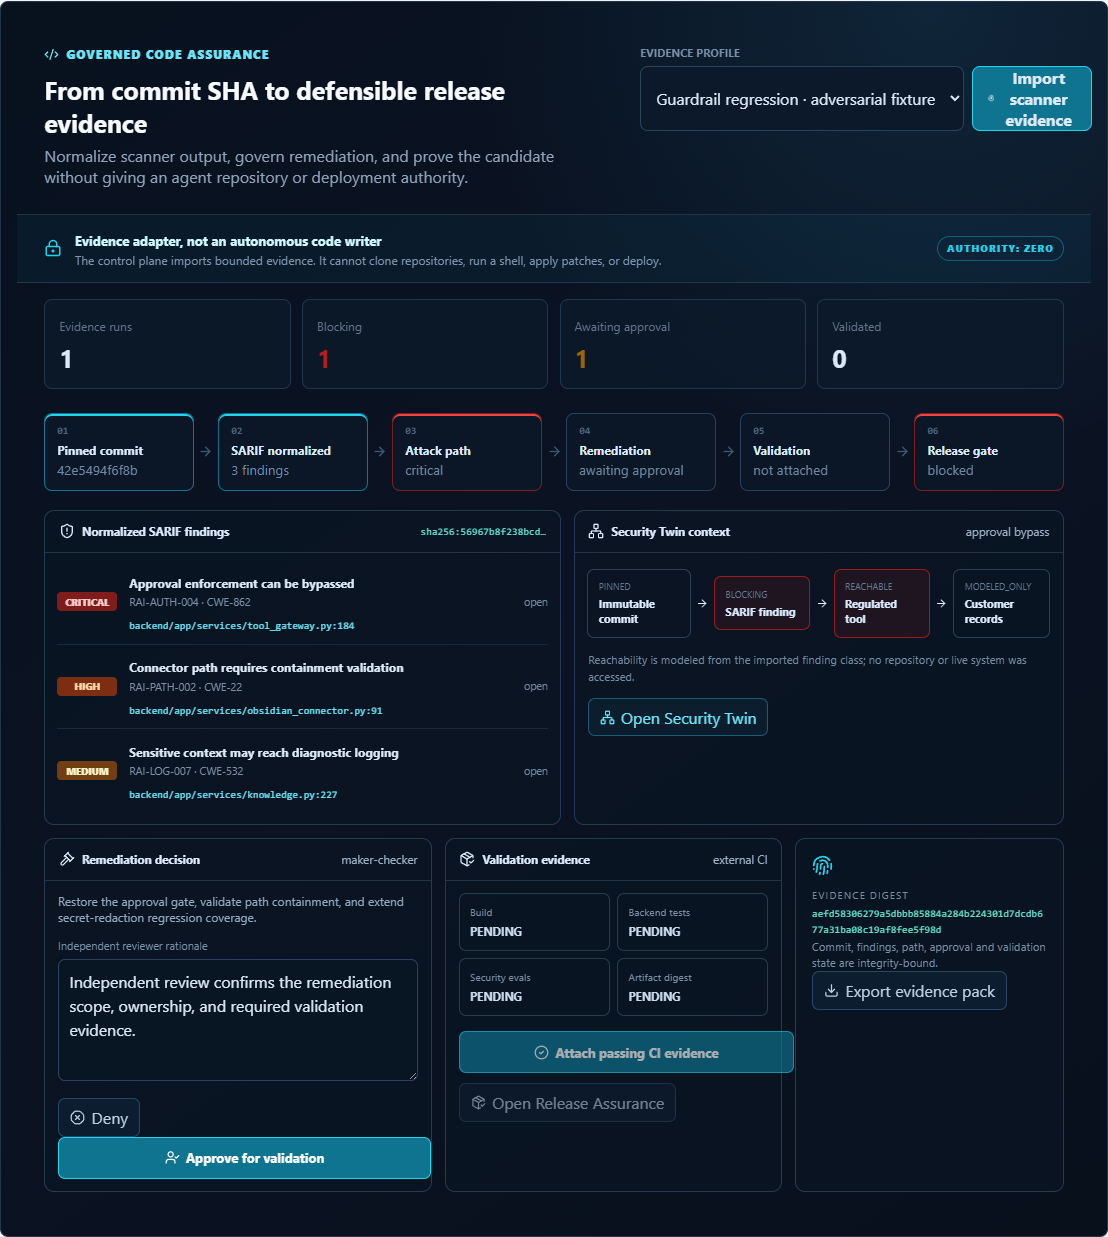
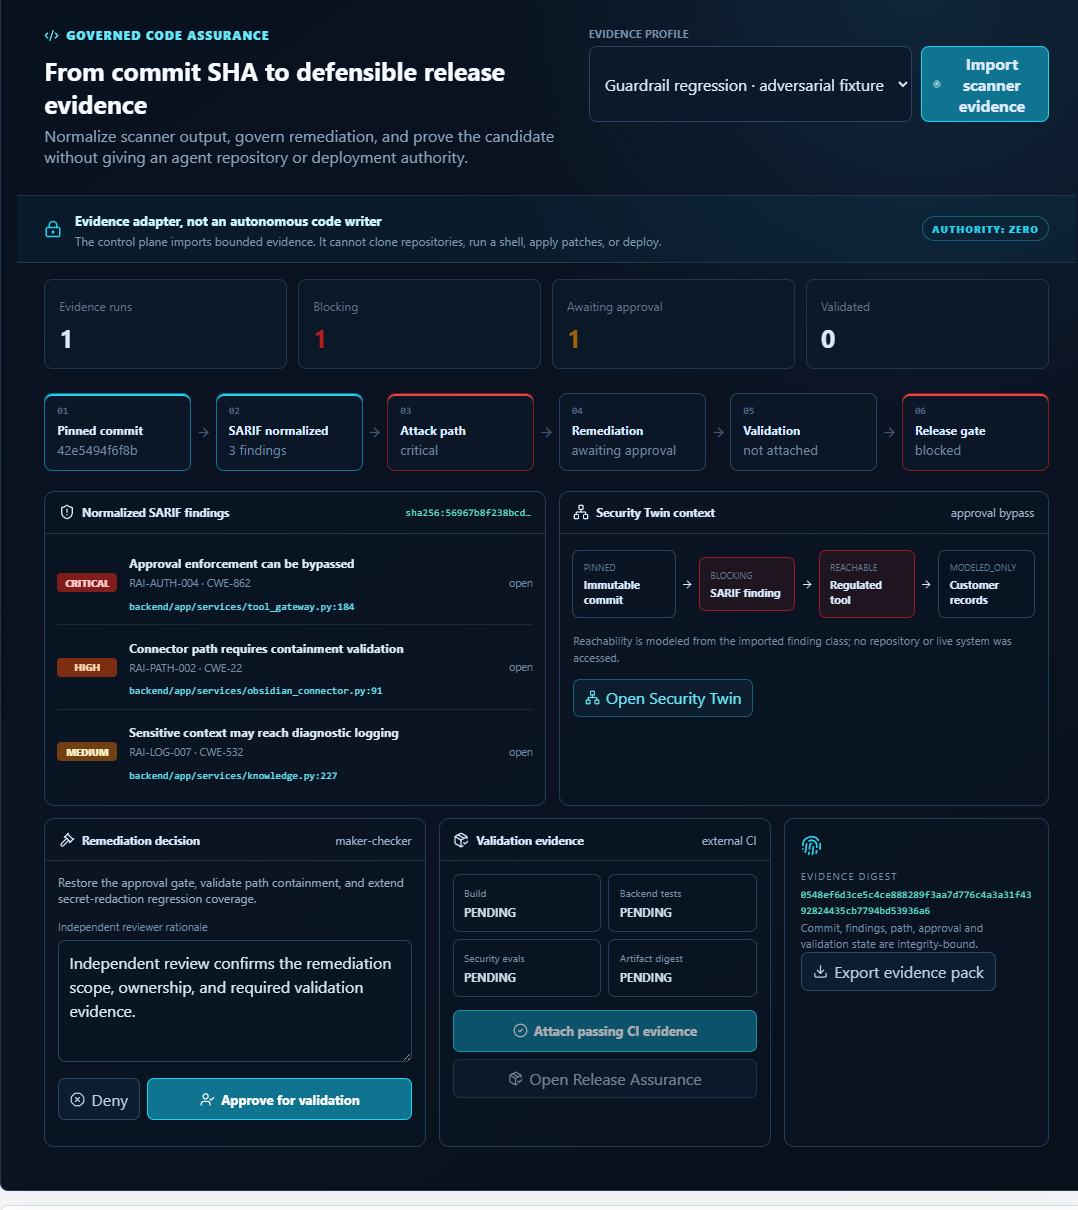
Fix Code Assurance action layout

diff --git a/frontend/src/styles.css b/frontend/src/styles.css
@@ -7403,16 +7403,17 @@ button.timeline-row:hover strong {
   border-bottom: 1px solid #22334a;
 }
 
+.code-assurance-hero > div:first-child { flex: 1 1 0; min-width: 0; }
 .code-assurance-hero h2 { margin: .45rem 0 .35rem; color: #f7fbff; font-size: 1.55rem; }
 .code-assurance-hero p { margin: 0; max-width: 760px; color: #8fa5bd; }
 .code-assurance-kicker { display: inline-flex; align-items: center; gap: .45rem; color: #67e8f9; font-size: .72rem; font-weight: 800; letter-spacing: .12em; }
-.code-assurance-actions { min-width: 350px; }
+.code-assurance-actions { flex: 0 1 460px; max-width: 100%; min-width: 320px; }
 .code-assurance-actions label { display: block; margin-bottom: .35rem; color: #7890aa; font-size: .7rem; font-weight: 700; text-transform: uppercase; }
 .code-assurance-actions > div { display: flex; gap: .55rem; }
 .code-assurance-actions select,
 .code-assurance-actions button { min-height: 39px; border: 1px solid #2a425f; background: #0c192a; color: #dce9f7; border-radius: 8px; }
-.code-assurance-actions select { flex: 1; padding: 0 .7rem; }
-.code-assurance-actions button { display: inline-flex; align-items: center; gap: .4rem; padding: 0 .9rem; background: #0e7490; border-color: #22d3ee; font-weight: 700; }
+.code-assurance-actions select { flex: 1 1 auto; min-width: 0; padding: 0 .7rem; }
+.code-assurance-actions button { align-items: center; background: #0e7490; border-color: #22d3ee; display: inline-flex; flex: 0 0 128px; font-weight: 700; gap: .4rem; justify-content: center; padding: .35rem .7rem; white-space: normal; }
 
 .code-assurance-boundary {
   align-items: center;
@@ -7483,20 +7484,23 @@ button.timeline-row:hover strong {
 .code-attack-card > button { margin-left: .85rem; display: inline-flex; align-items: center; gap: .4rem; color: #67e8f9; border: 1px solid #155e75; background: #0c1d2e; border-radius: 7px; padding: .45rem .65rem; }
 
 .code-assurance-lower { gap: .8rem; padding: 0 1.7rem 1.7rem; }
-.code-remediation-card { flex: 1.15; padding-bottom: .8rem; }
-.code-validation-card { flex: 1; padding-bottom: .8rem; }
-.code-evidence-card { flex: .7; padding: 1rem; }
+.code-remediation-card { flex: 1.15; min-width: 0; padding-bottom: .8rem; }
+.code-validation-card { flex: 1; min-width: 0; padding-bottom: .8rem; }
+.code-evidence-card { flex: .7; min-width: 0; padding: 1rem; }
 .code-remediation-card > p { margin: .8rem; color: #93a9c0; font-size: .75rem; }
 .code-remediation-card label { display: block; margin: .8rem; }
 .code-remediation-card label span { display: block; margin-bottom: .35rem; color: #7890aa; font-size: .68rem; }
 .code-remediation-card textarea { width: 100%; box-sizing: border-box; resize: vertical; border: 1px solid #2a425f; border-radius: 7px; background: #081522; color: #dce9f7; padding: .65rem; }
-.code-remediation-card > div:last-child,
-.code-validation-card > button { margin-left: .8rem; }
 .code-remediation-card button,
 .code-validation-card button,
-.code-evidence-card button { display: inline-flex; align-items: center; gap: .4rem; margin-right: .45rem; padding: .5rem .7rem; border: 1px solid #2b4664; border-radius: 7px; background: #0d1d30; color: #bed0e3; }
+.code-evidence-card button { align-items: center; border: 1px solid #2b4664; border-radius: 7px; box-sizing: border-box; color: #bed0e3; display: inline-flex; gap: .4rem; justify-content: center; min-width: 0; padding: .5rem .7rem; }
+.code-remediation-card button,
+.code-validation-card button { background: #0d1d30; white-space: normal; }
+.code-evidence-card button { background: #0d1d30; }
 .code-remediation-card button.primary,
 .code-validation-card button.primary { background: #0e7490; border-color: #22d3ee; color: white; }
+.code-remediation-actions { display: grid; gap: .45rem; grid-template-columns: minmax(76px, auto) minmax(0, 1fr); margin: .8rem; }
+.code-remediation-actions button { margin: 0; width: 100%; }
 .code-terminal { display: flex; align-items: center; gap: .45rem; color: #5eead4; font-size: .72rem; }
 .code-terminal span { margin-left: auto; margin-right: .8rem; color: #7088a1; }
 .code-validation-grid { display: grid; grid-template-columns: 1fr 1fr; gap: .45rem; margin: .8rem; }
@@ -7505,7 +7509,7 @@ button.timeline-row:hover strong {
 .code-validation-grid strong { color: #cbdbea; font-size: .72rem; text-transform: uppercase; }
 .code-validation-grid .passed,
 .code-validation-grid .bound { border-color: #0f766e; background: rgba(15, 118, 110, .1); }
-.code-validation-card > button { margin-top: .15rem; margin-bottom: .45rem; }
+.code-validation-card > button { display: flex; margin: .15rem .8rem .45rem; width: calc(100% - 1.6rem); }
 .code-evidence-card > svg { color: #22d3ee; }
 .code-evidence-card > span { display: block; margin: .55rem 0 .35rem; color: #7890aa; font-size: .62rem; letter-spacing: .12em; }
 .code-evidence-card > code { display: block; overflow-wrap: anywhere; color: #5eead4; font-size: .64rem; line-height: 1.55; }
@@ -7524,4 +7528,8 @@ button.timeline-row:hover strong {
   .code-evidence-card { width: 100%; box-sizing: border-box; }
   .code-assurance-rail { overflow-x: auto; }
   .code-assurance-step { min-width: 130px; }
+}
+
+@media (max-width: 520px) {
+  .code-remediation-actions { grid-template-columns: 1fr; }
 }

diff --git a/frontend/src/main.jsx b/frontend/src/main.jsx
@@ -3387,7 +3387,7 @@ function App() {
                       <textarea rows="3" value={codeAssuranceComment} onChange={(event) => setCodeAssuranceComment(event.target.value)} disabled={!["awaiting_remediation_approval", "evidence_imported"].includes(selectedCodeAssuranceRun.status)} />
                     </label>
                     {["awaiting_remediation_approval", "evidence_imported"].includes(selectedCodeAssuranceRun.status) ? (
-                      <div><button type="button" disabled={Boolean(codeAssuranceBusy)} onClick={() => decideCodeAssurance("deny")}><OctagonX size={15} />Deny</button><button className="primary" type="button" disabled={Boolean(codeAssuranceBusy)} onClick={() => decideCodeAssurance("approve")}><UserCheck size={15} />Approve for validation</button></div>
+                      <div className="code-remediation-actions"><button type="button" disabled={Boolean(codeAssuranceBusy)} onClick={() => decideCodeAssurance("deny")}><OctagonX size={15} />Deny</button><button className="primary" type="button" disabled={Boolean(codeAssuranceBusy)} onClick={() => decideCodeAssurance("approve")}><UserCheck size={15} />Approve for validation</button></div>
                     ) : (
                       <div className="code-terminal"><CheckCircle2 size={17} /><strong>{selectedCodeAssuranceRun.remediation.state.replaceAll("_", " ")}</strong><span>patch applied: no</span></div>
                     )}
